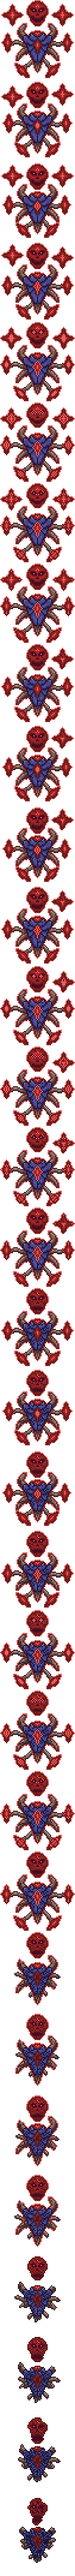
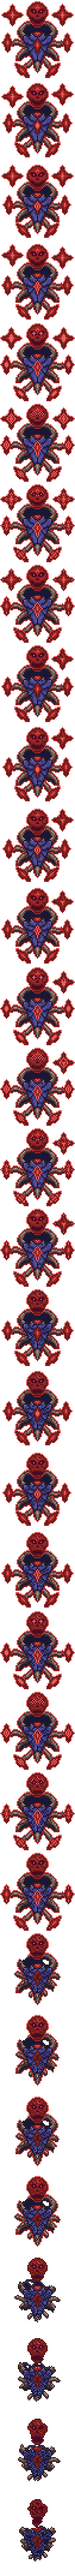
v2.6.1.2

Changed region(s): [[0.3095, 0.0, 0.6905, 1.0]]

diff --git a/NPCs/Boss/TheUltimateBoss.cs b/NPCs/Boss/TheUltimateBoss.cs
@@ -88,8 +88,6 @@ namespace StormDiversMod.NPCs.Boss
         }
         public override void SetBestiary(BestiaryDatabase database, BestiaryEntry bestiaryEntry)
         {
-            bestiaryEntry.UIInfoProvider = new CommonEnemyUICollectionInfoProvider(ContentSamples.NpcBestiaryCreditIdsByNpcNetIds[NPCType<ThePainBoss>()], quickUnlock: true); //for remix worlds, have full bestiary
-
             // We can use AddRange instead of calling Add multiple times in order to add multiple items at once
             bestiaryEntry.Info.AddRange(new IBestiaryInfoElement[] {
 				// Sets the spawning conditions of this NPC that is listed in the bestiary.
@@ -422,7 +420,7 @@ namespace StormDiversMod.NPCs.Boss
                 NPC.ai[0]++;
                 NPC.rotation = NPC.velocity.X / 50;
                 NPC.velocity *= 0.95f;
-                if (Main.rand.Next(10) == 0)
+                if (Main.rand.Next(8) == 0)
                 {
                     int xprojpos = Main.rand.Next(-30, 30);
                     int yprojpos = Main.rand.Next(-65, 65);
@@ -432,12 +430,12 @@ namespace StormDiversMod.NPCs.Boss
 
                     for (int i = 0; i < 20; i++)
                     {
-                        float speedY = -2f;
+                        float speedY = -1f;
 
                         Vector2 dustspeed = new Vector2(0, speedY).RotatedByRandom(MathHelper.ToRadians(360));
 
-                        int dust2 = Dust.NewDust(new Vector2(NPC.Center.X + xprojpos, NPC.Center.Y + yprojpos), 0, 0, 115, dustspeed.X, dustspeed.Y, 50, default, 1.5f);
-                        Main.dust[dust2].noGravity = true;
+                        int dust2 = Dust.NewDust(new Vector2(NPC.Center.X + xprojpos, NPC.Center.Y + yprojpos), 0, 0, 115, dustspeed.X, dustspeed.Y, 50, default, 1f);
+                        Main.dust[dust2].noGravity = false;
                     }
                     SoundEngine.PlaySound(SoundID.Item14 with { Volume = 1f, MaxInstances = -1, SoundLimitBehavior = SoundLimitBehavior.IgnoreNew }, NPC.Center);
                 }
@@ -511,7 +509,7 @@ namespace StormDiversMod.NPCs.Boss
                         speed = 12f;
                         inertia = 30f;
                     }
-
+                    
                     NPC.spriteDirection = 1;
 
                     NPC.ai[0]++;  //count to first attack
@@ -523,11 +521,11 @@ namespace StormDiversMod.NPCs.Boss
                             //Paintext = "Not bad, but how much pain can you handle?";
                             for (int i = 0; i < 50; i++)
                             {
-                                float speedY = -6f;
+                                float speedY = -4f;
                                 Vector2 dustspeed = new Vector2(0, speedY).RotatedByRandom(MathHelper.ToRadians(360));
 
-                                int dust1 = Dust.NewDust(new Vector2(NPC.Center.X + 38, NPC.Center.Y + 38), 0, 0, 115, dustspeed.X, dustspeed.Y, 50, default, 1f);
-                                Main.dust[dust1].noGravity = true;
+                                int dust1 = Dust.NewDust(new Vector2(NPC.Center.X + 38, NPC.Center.Y - 38), 0, 0, 115, dustspeed.X, dustspeed.Y, 50, default, 1f);
+                                Main.dust[dust1].noGravity = false;
                             }
                             if (Main.netMode != NetmodeID.Server)
                             {
@@ -544,11 +542,11 @@ namespace StormDiversMod.NPCs.Boss
                             //Paintext = "You're handling this better than I thought, but not for much longer!";
                             for (int i = 0; i < 50; i++)
                             {
-                                float speedY = -6f;
+                                float speedY = -4f;
                                 Vector2 dustspeed = new Vector2(0, speedY).RotatedByRandom(MathHelper.ToRadians(360));
 
-                                int dust1 = Dust.NewDust(new Vector2(NPC.Center.X - 48, NPC.Center.Y + 38), 0, 0, 115, dustspeed.X, dustspeed.Y, 50, default, 1f);
-                                Main.dust[dust1].noGravity = true;
+                                int dust1 = Dust.NewDust(new Vector2(NPC.Center.X - 48, NPC.Center.Y - 38), 0, 0, 115, dustspeed.X, dustspeed.Y, 50, default, 1f);
+                                Main.dust[dust1].noGravity = false;
                             }
                             if (Main.netMode != NetmodeID.Server)
                             {
@@ -593,18 +591,18 @@ namespace StormDiversMod.NPCs.Boss
                             Main.projectile[proj4].scale = 0.75f;
                             for (int i = 0; i < 50; i++)
                             {
-                                float speedY = -10f;
+                                float speedY = -4f;
 
                                 Vector2 dustspeed = new Vector2(0, speedY).RotatedByRandom(MathHelper.ToRadians(360));
 
                                 int dust1 = Dust.NewDust(new Vector2(NPC.Center.X + 54, NPC.Center.Y + 4), 0, 0, 115, dustspeed.X, dustspeed.Y, 50, default, 1f);
-                                Main.dust[dust1].noGravity = true;
+                                Main.dust[dust1].noGravity = false;
                                 int dust2 = Dust.NewDust(new Vector2(NPC.Center.X - 54, NPC.Center.Y + 4), 0, 0, 115, dustspeed.X, dustspeed.Y, 50, default, 1f);
-                                Main.dust[dust2].noGravity = true;
+                                Main.dust[dust2].noGravity = false;
                                 int dust3 = Dust.NewDust(new Vector2(NPC.Center.X + 30, NPC.Center.Y + 58), 0, 0, 115, dustspeed.X, dustspeed.Y, 50, default, 1f);
-                                Main.dust[dust3].noGravity = true;
+                                Main.dust[dust3].noGravity = false;
                                 int dust4 = Dust.NewDust(new Vector2(NPC.Center.X - 30, NPC.Center.Y + 58), 0, 0, 115, dustspeed.X, dustspeed.Y, 50, default, 1f);
-                                Main.dust[dust4].noGravity = true;
+                                Main.dust[dust4].noGravity = false;
                             }
 
                             if (Main.netMode != NetmodeID.MultiplayerClient)
@@ -1880,8 +1878,8 @@ namespace StormDiversMod.NPCs.Boss
 
                         Vector2 dustspeed = new Vector2(0, speedY).RotatedByRandom(MathHelper.ToRadians(360));
 
-                        int dust2 = Dust.NewDust(new Vector2(NPC.Center.X - 5, NPC.Center.Y + 10), 0, 0, 115, dustspeed.X, dustspeed.Y, 50, default, 1.25f);
-                        Main.dust[dust2].noGravity = true;
+                        int dust2 = Dust.NewDust(new Vector2(NPC.Center.X - 5, NPC.Center.Y + 10), 0, 0, 115, dustspeed.X, dustspeed.Y, 50, default, 1f);
+                        Main.dust[dust2].noGravity = false;
                     }
 
                     npcframe++;
@@ -1960,7 +1958,7 @@ namespace StormDiversMod.NPCs.Boss
                     Vector2 dustspeed = new Vector2(0, speedY).RotatedByRandom(MathHelper.ToRadians(360));
 
                     int dust2 = Dust.NewDust(new Vector2(NPC.Center.X - 5, NPC.Center.Y + 10), 0, 0, 115, dustspeed.X, dustspeed.Y, 50, default, 1.5f);
-                    Main.dust[dust2].noGravity = true;
+                    Main.dust[dust2].noGravity = false;
                 }
             }
         }
@@ -2041,22 +2039,12 @@ namespace StormDiversMod.NPCs.Boss
             }
             return true;
         }
-        public override void PostDraw(SpriteBatch spriteBatch, Vector2 screenPos, Color drawColor)
-        {
-            Texture2D texture = (Texture2D)Mod.Assets.Request<Texture2D>("NPCs/Boss/TheUltimateBoss_Glow");
-            Vector2 drawPos = new Vector2(0, 2) + NPC.Center - Main.screenPosition;
-
-            spriteBatch.Draw(texture, drawPos, NPC.frame, Color.White, NPC.rotation, NPC.frame.Size() / 2f, NPC.scale, NPC.spriteDirection == 1 ? SpriteEffects.FlipHorizontally : SpriteEffects.None, 0);
-            base.PostDraw(spriteBatch, screenPos, drawColor);
-        }
-
+      
         public override Color? GetAlpha(Color lightColor)
         {
             if (lifeleft == 3 && NPC.ai[3] >= 9)
             {
-                Color color = Color.IndianRed;
-                color.A = 200;
-                return color;
+                return Color.LightCoral;
             }
             else
             {

diff --git a/Items/Armour/SkyKnightArmour.cs b/Items/Armour/SkyKnightArmour.cs
@@ -20,7 +20,8 @@ namespace StormDiversMod.Items.Armour
         {
             base.SetStaticDefaults();
             //DisplayName.SetDefault("Star Warrior Visage");
-            //Tooltip.SetDefault("5% increased damage");
+            //Tooltip.SetDefault("5% increased whip range
+            //\n4% increased damage");
             //ArmorIDs.Head.Sets.DrawHead[Item.headSlot] = false;
             Item.ResearchUnlockCount = 1;
             HeadLayer.RegisterData(Item.headSlot, new DrawLayerData()
@@ -40,7 +41,8 @@ namespace StormDiversMod.Items.Armour
 
         public override void UpdateEquip(Player player)
         {
-            player.GetDamage(DamageClass.Generic) += 0.06f;
+            player.GetDamage(DamageClass.Generic) += 0.04f;
+            player.whipRangeMultiplier += 0.05f;
         }
 
         public override void ArmorSetShadows(Player player)
@@ -48,7 +50,6 @@ namespace StormDiversMod.Items.Armour
             //player.armorEffectDrawShadow = true;
 
             player.armorEffectDrawOutlines = true;
-
         }
 
         public override bool IsArmorSet(Item head, Item body, Item legs)
@@ -142,7 +143,7 @@ namespace StormDiversMod.Items.Armour
         {
             base.SetStaticDefaults();
             //DisplayName.SetDefault("Star Warrior Greaves");
-            //Tooltip.SetDefault("Increases your max number of sentries by 1\n2% increased damage");
+            //Tooltip.SetDefault("10% increased whip range\n2% increased damage");
             Item.ResearchUnlockCount = 1;
             LegsLayer.RegisterData(Item.legSlot, new DrawLayerData()
             {
@@ -161,9 +162,7 @@ namespace StormDiversMod.Items.Armour
 
         public override void UpdateEquip(Player player)
         {
-
-            player.maxTurrets += 1;
-
+            player.whipRangeMultiplier += 0.10f;
             player.GetDamage(DamageClass.Generic) += 0.02f;
 
         }

diff --git a/Items/Weapons/MossStingerGun.cs b/Items/Weapons/MossStingerGun.cs
@@ -40,9 +40,9 @@ namespace StormDiversMod.Items.Weapons
             Item.autoReuse = true;
             Item.DamageType = DamageClass.Magic;
             if (ModLoader.HasMod("TRAEProject"))
-                Item.mana = 10;
+                Item.mana = 9;
             else
-                Item.mana = 7;
+                Item.mana = 6;
             Item.UseSound = SoundID.Item17;
             Item.damage = 35;
             Item.crit = 8;
@@ -55,11 +55,11 @@ namespace StormDiversMod.Items.Weapons
         {
             return new Vector2(-5, 4); 
         }
-        float accuracy = 0; //The amount of spread
+        //float accuracy = 0; //The amount of spread
         public override void HoldItem(Player player)
         {
             //Main.NewText("" + accuracy, Color.Gold);
-            accuracy = 20 - ((float)player.statMana / (float)player.statManaMax2 * 20); //0 at max mana, 12 at 0 mana
+            //accuracy = 20 - ((float)player.statMana / (float)player.statManaMax2 * 20); //0 at max mana, 20 at 0 mana
         }
         public override bool Shoot(Player player, EntitySource_ItemUse_WithAmmo source, Vector2 position, Vector2 velocity, int type, int damage, float knockback)
         {
@@ -68,7 +68,7 @@ namespace StormDiversMod.Items.Weapons
             {
                 position += muzzleOffset;
             }
-            Vector2 perturbedSpeed = new Vector2(velocity.X, velocity.Y).RotatedByRandom(MathHelper.ToRadians(accuracy));
+            Vector2 perturbedSpeed = new Vector2(velocity.X, velocity.Y).RotatedByRandom(MathHelper.ToRadians(3));
             Projectile.NewProjectile(source, new Vector2(position.X, position.Y + 8), new Vector2(perturbedSpeed.X, perturbedSpeed.Y), type, damage, knockback, player.whoAmI);
 
             return false;

diff --git a/NPCs/Boss/UltimateBossMinion.cs b/NPCs/Boss/UltimateBossMinion.cs
@@ -106,7 +106,7 @@ namespace StormDiversMod.NPCs.Boss
 
                 Vector2 dustspeed = new Vector2(0, speedY).RotatedByRandom(MathHelper.ToRadians(360));
 
-                int dust2 = Dust.NewDust(new Vector2(NPC.Center.X - 5, NPC.Center.Y), 0, 0, 115, dustspeed.X, dustspeed.Y, 50, default, 1.25f);
+                int dust2 = Dust.NewDust(new Vector2(NPC.Center.X - 5, NPC.Center.Y), 0, 0, 115, dustspeed.X, dustspeed.Y, 50, default, 1);
                 Main.dust[dust2].noGravity = true;
             }
         }
@@ -172,7 +172,7 @@ namespace StormDiversMod.NPCs.Boss
                     Vector2 dustspeed = new Vector2(0, speedY).RotatedByRandom(MathHelper.ToRadians(360));
 
                     int dust2 = Dust.NewDust(new Vector2(NPC.Center.X - 5, NPC.Center.Y), 0, 0, 115, dustspeed.X, dustspeed.Y, 50, default, 1f);
-                    Main.dust[dust2].noGravity = true;
+                    Main.dust[dust2].noGravity = false;
                 }
                 SoundEngine.PlaySound(SoundID.Item107 with { Volume = 2f, Pitch = -0.5f, MaxInstances = -1, SoundLimitBehavior = SoundLimitBehavior.IgnoreNew }, NPC.Center);
                 NPC.boss = false; //no death message
@@ -449,7 +449,7 @@ namespace StormDiversMod.NPCs.Boss
                     Vector2 dustspeed = new Vector2(0, speedY).RotatedByRandom(MathHelper.ToRadians(360));
 
                     int dust2 = Dust.NewDust(new Vector2(NPC.Center.X - 5, NPC.Center.Y), 0, 0, 115, dustspeed.X, dustspeed.Y, 50, default, 1f);
-                    Main.dust[dust2].noGravity = true;
+                    Main.dust[dust2].noGravity = false;
                 }
                 NPC.boss = false;
             }

diff --git a/NPCs/Boss/ThePainBoss.cs b/NPCs/Boss/ThePainBoss.cs
@@ -89,17 +89,10 @@ namespace StormDiversMod.NPCs.Boss
             NPC.dontTakeDamage = true;
 
         }
-        /*public override void SetBestiary(BestiaryDatabase database, BestiaryEntry bestiaryEntry)
+        public override void SetBestiary(BestiaryDatabase database, BestiaryEntry bestiaryEntry)
         {
-            // We can use AddRange instead of calling Add multiple times in order to add multiple items at once
-            bestiaryEntry.Info.AddRange(new IBestiaryInfoElement[] {
-				// Sets the spawning conditions of this NPC that is listed in the bestiary.
-				BestiaryDatabaseNPCsPopulator.CommonTags.SpawnConditions.Biomes.Surface,
-
-				// Sets the description of this NPC that is listed in the bestiary.
-				new FlavorTextBestiaryInfoElement("This is what Ultimate Pain is")
-            });
-        }*/
+            //bestiaryEntry.UIInfoProvider = new CommonEnemyUICollectionInfoProvider(ContentSamples.NpcBestiaryCreditIdsByNpcNetIds[NPCType<TheUltimateBoss>()], quickUnlock: true); //for gfb worlds, have full bestiary
+        }
 
         public override void ApplyDifficultyAndPlayerScaling(int numPlayers, float balance, float bossAdjustment)
         {
@@ -358,10 +351,8 @@ namespace StormDiversMod.NPCs.Boss
                     NPC.velocity *= 0.95f;
                 }
 
-                NPC.EncourageDespawn(60);
-
                 NPC.localAI[1]++;
-                if (NPC.localAI[1] > 300)
+                if (NPC.localAI[1] > 300 && Main.zenithWorld)
                 {
                     NPC.active = false;
                 }

diff --git a/Items/Accessory/FrostCube.cs b/Items/Accessory/FrostCube.cs
@@ -15,17 +15,14 @@ namespace StormDiversMod.Items.Accessory
 
     public class FrostCube : ModItem
     {
-
         public override void SetStaticDefaults()
         {
             //DisplayName.SetDefault("Frozen Queen's Core");
-            //Tooltip.SetDefault("Increases your max number of minions and sentries by 1\nIncreases whip range by 15%");
+            //Tooltip.SetDefault("Increases your max number of minions and sentries by 1\n15% Increased whip range");
             Main.RegisterItemAnimation(Item.type, new DrawAnimationVertical(5, 4));
             ItemID.Sets.AnimatesAsSoul[Item.type] = true;
             Item.ResearchUnlockCount = 1;
-
         }
-
         public override void SetDefaults()
         {
             Item.width = 30;
@@ -35,19 +32,14 @@ namespace StormDiversMod.Items.Accessory
             Item.rare = ItemRarityID.Yellow;
 
             Item.accessory = true;
-            
-
         }
-
         public override void UpdateAccessory(Player player, bool hideVisual)
         {
-            
-                //player.GetModPlayer<EquipmentEffects>().frostCube = true;
-            
+            //player.GetModPlayer<EquipmentEffects>().frostCube = true;   
             player.maxMinions += 1;
             player.maxTurrets += 1;
             //player.GetDamage(DamageClass.Summon) += 0.1f;
-            player.whipRangeMultiplier *= 1.15f;
+            player.whipRangeMultiplier += 1.15f;
             //player.whipUseTimeMultiplier *= 0.9f;
         }
 

diff --git a/Projectiles/AmmoProjs/ProtoGrenadeProj.cs b/Projectiles/AmmoProjs/ProtoGrenadeProj.cs
@@ -149,15 +149,13 @@ namespace StormDiversMod.Projectiles.AmmoProjs
         {
             //DisplayName.SetDefault("Sharpnel");
             ProjectileID.Sets.PlayerHurtDamageIgnoresDifficultyScaling[Projectile.type] = true;
-
         }
         public override void SetDefaults()
         {
-
             Projectile.width = 9;
             Projectile.height = 9;
             Projectile.friendly = true;
-            Projectile.hostile = true;
+            //Projectile.hostile = true;
 
             Projectile.penetrate = 1;
             Projectile.DamageType = DamageClass.Ranged;
